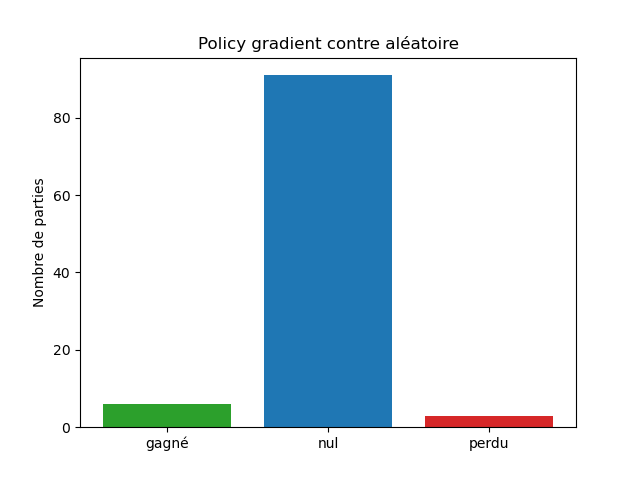
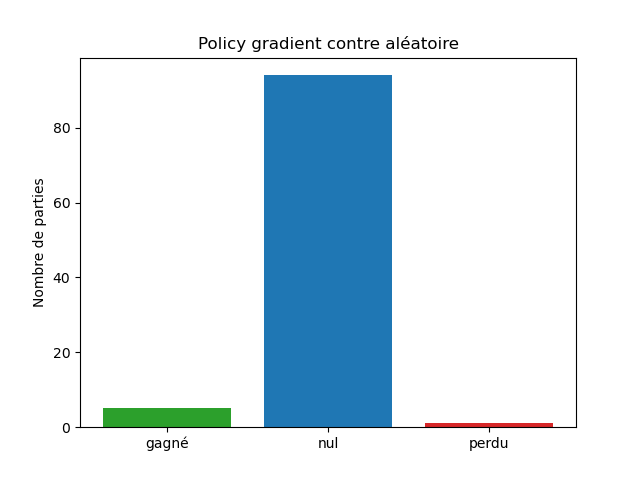
plot

diff --git a/Jeux/Ultimate-Tic-Tac-Toe/Bots/bot_policy_gradient.py b/Jeux/Ultimate-Tic-Tac-Toe/Bots/bot_policy_gradient.py
@@ -23,8 +23,13 @@ class PolicyGradient:
         state_tensor = torch.FloatTensor(state)
         action_probs = self.policy_network(state_tensor)
 
+        if torch.isnan(action_probs).any():
+            print('action probs',action_probs)
+            print('state tensor',state_tensor)
+            print('state',state)
+
+
         ###
-        
         # Get legal actions
         possible_moves = env.get_possible_moves()
         legal_actions = [coordinates_to_index(move) for move in possible_moves]
@@ -35,13 +40,7 @@ class PolicyGradient:
         masked_probs[0][legal_actions] = action_probs[0][legal_actions]
 
         masked_probs /= masked_probs.sum() # Normalize probabilities
-        if torch.isnan(masked_probs).any():
-            print('action',action_probs)
-            print('state',state_tensor)
-
-            action_dist = torch.distributions.Categorical(action_probs)
-        else:
-            action_dist = torch.distributions.Categorical(masked_probs)
+        action_dist = torch.distributions.Categorical(masked_probs)
 
         ###
         
@@ -75,6 +74,51 @@ class PolicyGradient:
         return discounted_rewards
     
 
+    def train_agent(self, num_episodes = 1000,show_plot=False,verbose_gradient=False):
+        
+        env = Morpion()
+
+        train_loss = []
+
+        for episode in range(num_episodes):
+            env.reset()
+            
+            rewards = []
+            log_probs = []
+            done = False
+
+            while not done:
+                state = np.reshape(env.boards, (1, 81))
+                action, log_prob = self.select_action(env,state)
+                next_state, reward, done = env.step2(action)
+                rewards.append(reward)
+                log_probs.append(log_prob)
+
+            self.update(rewards, log_probs)
+
+            if verbose_gradient:
+                if (episode + 1) % 10 == 0:
+                    for name, param in self.policy_network.named_parameters():
+                        if param.grad is not None:
+                            print(f"Parameter: {name}, Gradient Norm: {param.grad.norm().item()}")
+            
+
+            episode_loss = -torch.cat(log_probs).sum().item() #
+            train_loss.append(episode_loss)
+
+            if (episode + 1) % 10 == 0:
+                print(f"Episode: {episode + 1}, Total Reward: {sum(rewards)}, Loss: {episode_loss}")
+
+        if show_plot:
+            plt.plot(train_loss)
+            plt.title("Loss pendant l'entraînement")
+            plt.xlabel('Episodes')
+            plt.ylabel('Loss')
+            plt.show()
+
+
+
+
 def coordinates_to_index(coordinates):
     x, y = coordinates
     return x * 9 + y
@@ -85,88 +129,68 @@ def index_to_coordinates(index):
     return x, y
 
 
-
-state_size = 81  
-action_size = 81 
-
-agent = PolicyGradient(state_size, action_size)
-env = Morpion()
-
-
-# Training loop
-num_episodes = 1000
-train_loss = []
-
-for episode in range(num_episodes):
-    env.reset()
-    
-    rewards = []
-    log_probs = []
-    done = False
-
-    while not done:
-        state = np.reshape(env.boards, (1, 81))
-        action, log_prob = agent.select_action(env,state)
-        next_state, reward, done = env.step2(action)
-        rewards.append(reward)
-        log_probs.append(log_prob)
-
-    agent.update(rewards, log_probs)
-
-    episode_loss = -torch.cat(log_probs).sum().item() #
-    train_loss.append(episode_loss)
-
-    if (episode + 1) % 10 == 0:
-        print(f"Episode: {episode + 1}, Total Reward: {sum(rewards)}, Loss: {episode_loss}")
-
-
-plt.plot(train_loss)
-plt.title("Loss pendant l'entraînement")
-plt.xlabel('Episodes')
-plt.ylabel('Loss')
-plt.show()
-
-
-
-
-
 ###### Test contre bot aleatoire
 
 from bot_aleatoire import Aleatoire
-gagne_dqn = 0
-perdu_dqn = 0
-neutre_dqn = 0
 
-env = Morpion()
+liste_gagne = []
+liste_perdu = []
 
-for partie in range(100):
-    env.reset()
-    alea = Aleatoire(env)
-    T = False
+NB_EPISODES = [100,200,300,400,500,600,700,800]
 
+for nb_episodes in NB_EPISODES:
+    gagne_pg = 0
+    perdu_pg = 0
+    neutre_pg = 0
+
+    env = Morpion()
+    state_size = 81  
+    action_size = 81 
+
+    agent = PolicyGradient(state_size, action_size)
+    agent.train_agent(nb_episodes)
+
+    for partie in range(100):
+        env.reset()
+        alea = Aleatoire(env)
+        T = False
+
+            
+        while not T:
+            state = np.reshape(env.boards, (1,81))
+            action = index_to_coordinates(agent.select_action(env, state)[0])
+            
+            env.make_move_self(action)
+            T = env.is_terminal((action[0]//3,action[1]//3))
+            if T:
+                break
+            opponent_move = alea.give_move()
+            env.make_move_self(opponent_move)
+            T = env.is_terminal((opponent_move[0]//3,opponent_move[1]//3))
+
+        resultat = env.get_result()
+        if resultat == 1:
+            gagne_pg +=1
+        elif resultat == -1:
+            perdu_pg +=1
+        else:
+            neutre_pg +=1
         
-    while not T:
-        state = np.reshape(env.boards, (1,81))
-        action = index_to_coordinates(agent.select_action(env, state)[0])
-        
-        env.make_move_self(action)
-        T = env.is_terminal((action[0]//3,action[1]//3))
-        if T:
-            break
-        opponent_move = alea.give_move()
-        env.make_move_self(opponent_move)
-        T = env.is_terminal((opponent_move[0]//3,opponent_move[1]//3))
+    liste_gagne.append(gagne_pg)
+    liste_perdu.append(perdu_pg)
 
-    resultat = env.get_result()
-    if resultat == 1:
-        gagne_dqn +=1
-    elif resultat == -1:
-        perdu_dqn +=1
-    else:
-        neutre_dqn +=1
-    
+    """
+    plt.bar(["gagné","nul","perdu"],[gagne_pg,neutre_pg,perdu_pg],color = ['tab:green', 'tab:blue', 'tab:red'])
+    plt.ylabel('Nombre de parties')
+    plt.title('Policy gradient contre aléatoire')
+    plt.show()
+    """
 
-plt.bar(["gagné","nul","perdu"],[gagne_dqn,neutre_dqn,perdu_dqn],color = ['tab:green', 'tab:blue', 'tab:red'])
+
+plt.plot(NB_EPISODES,liste_gagne,label="policy gradient gagné")
+plt.plot(NB_EPISODES,liste_perdu,label="policy gradient perdu nul")
+plt.legend()
+plt.xlabel('Nombre de simulations')
 plt.ylabel('Nombre de parties')
-plt.title('Policy gradient contre aléatoire')
+plt.title('Sur 100 parties jouées, nombre de parties gagnées et\nperdues en fonction du nombre d\'épisodes')
 plt.show()

diff --git a/Jeux/Ultimate-Tic-Tac-Toe/Bots/Game_representation.py b/Jeux/Ultimate-Tic-Tac-Toe/Bots/Game_representation.py
@@ -164,10 +164,11 @@ class Morpion(GameState):
         board_x, board_y = action[0]//3,action[1]//3
 
         if self.is_terminal((board_x, board_y)):
-            return -self.get_result()*10
+            return -self.get_result()*100
             #return -self.get_result()*10 - 0.5*self.player
+    
         else:
-            return 0
+            return 0 # coup legal
         #else:
             #return -self.small_board_won_reward(board_x,board_y,action[0]%3,action[1]%3)*0.5 # reward de 0.5 si on gagne un petit board, -0.5 si on en perd
     
@@ -187,15 +188,18 @@ class Morpion(GameState):
     
 
     def step2(self, action): # utilise representation de toute la grille en un vecteur de taille 81
-        if action not in self.get_possible_moves():
-            reward=-1000
+        action = index_to_coordinates(action)
+        if action not in self.get_possible_moves(): # coup illegal
+            reward=-100
             done = True
             return None, reward, done
+        
         self.make_move_self(action)
         reward = self.calculate_reward(action) 
         done = self.is_terminal((action[0]//3,action[1]//3))
+
         if done:
-            return None, reward*100, done
+            return None, reward, done
         return np.reshape(self.boards,(1,81)), reward, done
     
 
@@ -227,6 +231,11 @@ class Morpion(GameState):
                     [[(6,0),(6,1),(6,2),(7,0),(7,1),(7,2),(8,0),(8,1),(8,2)],
                     [(6,3),(6,4),(6,5),(7,3),(7,4),(7,5),(8,3),(8,4),(8,5)],
                     [(6,6),(6,7),(6,8),(7,6),(7,7),(7,8),(8,6),(8,7),(8,8)]]] 
-        (i,j) = self.get_possible_moves()[0] #
-        state,board_x,board_y = self.get_grid(i,j)
-        return state,board_x,board_y
+        self.player = 1
+        self.last_move = None
+
+
+def index_to_coordinates(index):
+    x = index // 9
+    y = index % 9
+    return x, y
